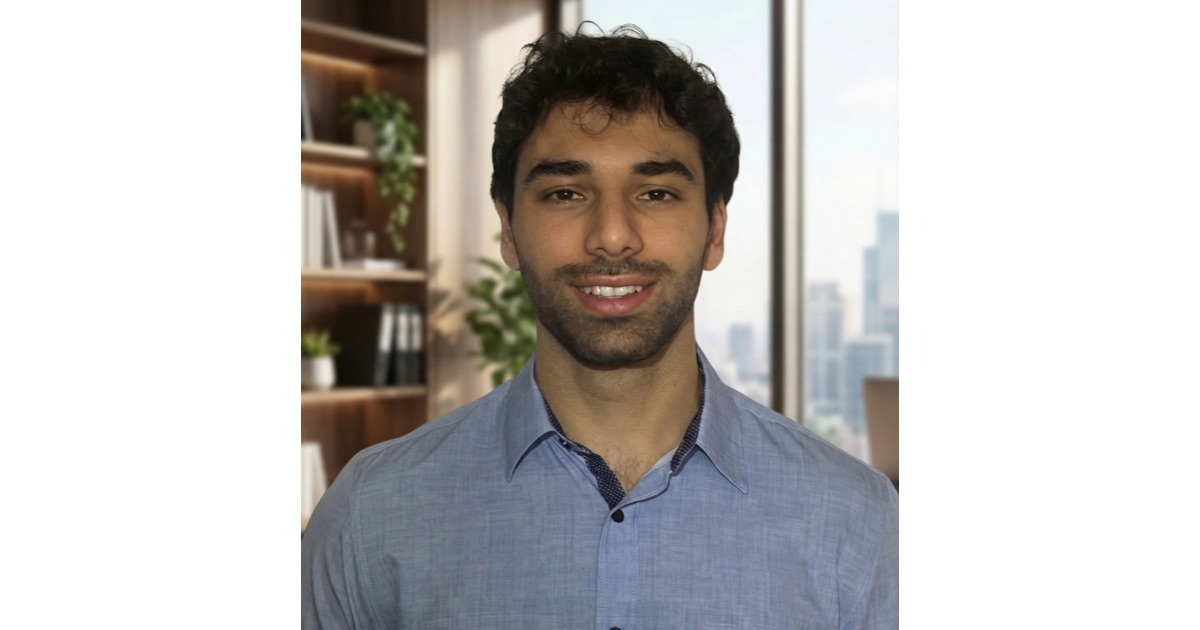
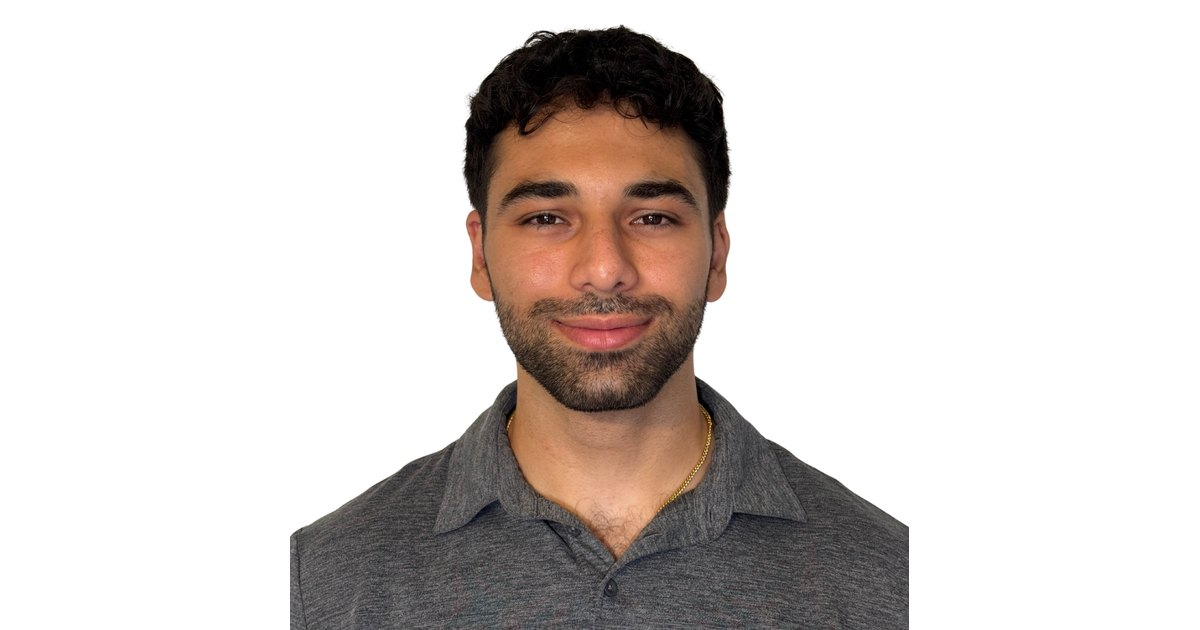
Replace main profile photo and social share image with new headshot
Swap the homepage hero photo (assets/jason-eissayou.jpg) and the
Open Graph / Twitter card image (assets/og-image.jpg) for the new
white-background headshot, and version the image URLs so browsers
and link-preview crawlers fetch the new files.

Claude-Session: https://claude.ai/code/session_01DPmRTsypnV6537Z5ZNzYpJ

diff --git a/index.html b/index.html
@@ -19,7 +19,7 @@
     content="Software Engineer on the watsonx.ai team at IBM. MS in Computer Science from UC Davis.">
   <meta property="og:type" content="website">
   <meta property="og:url" content="https://www.eissayou.com/">
-  <meta property="og:image" content="https://www.eissayou.com/assets/og-image.jpg">
+  <meta property="og:image" content="https://www.eissayou.com/assets/og-image.jpg?v=20261030">
   <meta property="og:site_name" content="Jason Eissayou Portfolio">
 
   <!-- Twitter -->
@@ -27,7 +27,7 @@
   <meta name="twitter:title" content="Jason Eissayou | Software Engineer at IBM watsonx.ai">
   <meta name="twitter:description"
     content="Software Engineer on the watsonx.ai team at IBM. MS in Computer Science from UC Davis.">
-  <meta name="twitter:image" content="https://www.eissayou.com/assets/og-image.jpg">
+  <meta name="twitter:image" content="https://www.eissayou.com/assets/og-image.jpg?v=20261030">
 
   <script type="application/ld+json">
     {
@@ -235,7 +235,7 @@
   <link rel="preconnect" href="https://fonts.googleapis.com">
   <link rel="preconnect" href="https://fonts.gstatic.com" crossorigin>
   <link rel="preconnect" href="https://cdnjs.cloudflare.com" crossorigin>
-  <link rel="preload" as="image" href="assets/jason-eissayou.jpg">
+  <link rel="preload" as="image" href="assets/jason-eissayou.jpg?v=20261030">
   <link rel="stylesheet" href="https://fonts.googleapis.com/css2?family=Inter:wght@300;400;500;600;700;800&family=Playfair+Display:wght@700&display=swap">
   <link rel="stylesheet" href="assets/main.css?v=20260715b">
   <link rel="stylesheet" href="https://cdnjs.cloudflare.com/ajax/libs/font-awesome/6.4.2/css/all.min.css">
@@ -269,8 +269,8 @@
       <button type="button" class="profile-photo-btn" id="profile-photo-btn" title="View more photos"
         style="display: block; margin: 0 auto 2rem auto; padding: 0; border: none; background: none; border-radius: 50%; cursor: pointer;"
         aria-haspopup="dialog" aria-controls="photo-lightbox" aria-label="View more photos of Jason">
-        <img src="assets/jason-eissayou.jpg" alt="Jason Eissayou, software engineer" class="profile-photo"
-          width="608" height="640" fetchpriority="high">
+        <img src="assets/jason-eissayou.jpg?v=20261030" alt="Jason Eissayou, software engineer" class="profile-photo"
+          width="640" height="640" fetchpriority="high">
       </button>
 
       <!-- Name & Title -->

diff --git a/projects/formfixai.html b/projects/formfixai.html
@@ -20,14 +20,14 @@
     content="Case study: FormFixAI analyzes workout videos with Google Gemini 2.5 on an event-driven Azure pipeline using Blob Storage, Functions, FFmpeg, and Cosmos DB.">
   <meta property="og:type" content="website">
   <meta property="og:url" content="https://www.eissayou.com/projects/formfixai.html">
-  <meta property="og:image" content="https://www.eissayou.com/assets/og-image.jpg">
+  <meta property="og:image" content="https://www.eissayou.com/assets/og-image.jpg?v=20261030">
 
   <!-- Twitter -->
   <meta name="twitter:card" content="summary_large_image">
   <meta name="twitter:title" content="FormFixAI: AI Workout Form Analysis | Jason Eissayou">
   <meta name="twitter:description"
     content="Case study: FormFixAI analyzes workout videos with Google Gemini 2.5 on an event-driven Azure pipeline using Blob Storage, Functions, FFmpeg, and Cosmos DB.">
-  <meta name="twitter:image" content="https://www.eissayou.com/assets/og-image.jpg">
+  <meta name="twitter:image" content="https://www.eissayou.com/assets/og-image.jpg?v=20261030">
 
   <script type="application/ld+json">
     {

diff --git a/achievements.html b/achievements.html
@@ -19,14 +19,14 @@
     content="Published arXiv research, 2025 UC Davis CS TA Excellence Award, tennis titles and ITA rankings, hackathon projects, Dean's List, Cal-Bridge, and certifications.">
   <meta property="og:type" content="website">
   <meta property="og:url" content="https://www.eissayou.com/achievements.html">
-  <meta property="og:image" content="https://www.eissayou.com/assets/og-image.jpg">
+  <meta property="og:image" content="https://www.eissayou.com/assets/og-image.jpg?v=20261030">
 
   <!-- Twitter -->
   <meta name="twitter:card" content="summary_large_image">
   <meta name="twitter:title" content="Awards & Achievements | Jason Eissayou">
   <meta name="twitter:description"
     content="Published arXiv research, 2025 UC Davis CS TA Excellence Award, tennis titles and ITA rankings, hackathon projects, Dean's List, Cal-Bridge, and certifications.">
-  <meta name="twitter:image" content="https://www.eissayou.com/assets/og-image.jpg">
+  <meta name="twitter:image" content="https://www.eissayou.com/assets/og-image.jpg?v=20261030">
 
   <script type="application/ld+json">
     {

diff --git a/projects.html b/projects.html
@@ -18,14 +18,14 @@
     content="Explore software and research projects by Jason Eissayou, including FormFixAI, Azure Honeypot Threat Map, and PCAP Explorer.">
   <meta property="og:type" content="website">
   <meta property="og:url" content="https://www.eissayou.com/projects.html">
-  <meta property="og:image" content="https://www.eissayou.com/assets/og-image.jpg">
+  <meta property="og:image" content="https://www.eissayou.com/assets/og-image.jpg?v=20261030">
 
   <!-- Twitter -->
   <meta name="twitter:card" content="summary_large_image">
   <meta name="twitter:title" content="Projects | Jason Eissayou">
   <meta name="twitter:description"
     content="Explore software and research projects by Jason Eissayou, including FormFixAI, Azure Honeypot Threat Map, and PCAP Explorer.">
-  <meta name="twitter:image" content="https://www.eissayou.com/assets/og-image.jpg">
+  <meta name="twitter:image" content="https://www.eissayou.com/assets/og-image.jpg?v=20261030">
 
   <script type="application/ld+json">
     {

diff --git a/contact.html b/contact.html
@@ -18,14 +18,14 @@
     content="Contact Jason Eissayou, Software Engineer on the watsonx.ai team at IBM. Open to engineering and AI collaborations.">
   <meta property="og:type" content="website">
   <meta property="og:url" content="https://www.eissayou.com/contact.html">
-  <meta property="og:image" content="https://www.eissayou.com/assets/og-image.jpg">
+  <meta property="og:image" content="https://www.eissayou.com/assets/og-image.jpg?v=20261030">
 
   <!-- Twitter -->
   <meta name="twitter:card" content="summary_large_image">
   <meta name="twitter:title" content="Contact Jason Eissayou | Software Engineer">
   <meta name="twitter:description"
     content="Contact Jason Eissayou, Software Engineer on the watsonx.ai team at IBM. Open to engineering and AI collaborations.">
-  <meta name="twitter:image" content="https://www.eissayou.com/assets/og-image.jpg">
+  <meta name="twitter:image" content="https://www.eissayou.com/assets/og-image.jpg?v=20261030">
 
   <script type="application/ld+json">
     {

diff --git a/resume.html b/resume.html
@@ -18,14 +18,14 @@
     content="Resume of Jason Eissayou, Software Engineer on the watsonx.ai team at IBM. MS in Computer Science from UC Davis.">
   <meta property="og:type" content="profile">
   <meta property="og:url" content="https://www.eissayou.com/resume.html">
-  <meta property="og:image" content="https://www.eissayou.com/assets/og-image.jpg">
+  <meta property="og:image" content="https://www.eissayou.com/assets/og-image.jpg?v=20261030">
 
   <!-- Twitter -->
   <meta name="twitter:card" content="summary_large_image">
   <meta name="twitter:title" content="Resume | Jason Eissayou - Software Engineer">
   <meta name="twitter:description"
     content="Resume of Jason Eissayou, Software Engineer on the watsonx.ai team at IBM. MS in Computer Science from UC Davis.">
-  <meta name="twitter:image" content="https://www.eissayou.com/assets/og-image.jpg">
+  <meta name="twitter:image" content="https://www.eissayou.com/assets/og-image.jpg?v=20261030">
 
   <script type="application/ld+json">
     {

diff --git a/about.html b/about.html
@@ -18,14 +18,14 @@
     content="Learn about Jason Eissayou, Software Engineer on the watsonx.ai team at IBM. MS CS from UC Davis.">
   <meta property="og:type" content="profile">
   <meta property="og:url" content="https://www.eissayou.com/about.html">
-  <meta property="og:image" content="https://www.eissayou.com/assets/og-image.jpg">
+  <meta property="og:image" content="https://www.eissayou.com/assets/og-image.jpg?v=20261030">
 
   <!-- Twitter -->
   <meta name="twitter:card" content="summary_large_image">
   <meta name="twitter:title" content="About Jason Eissayou | Software Engineer">
   <meta name="twitter:description"
     content="Learn about Jason Eissayou, Software Engineer on the watsonx.ai team at IBM. MS CS from UC Davis.">
-  <meta name="twitter:image" content="https://www.eissayou.com/assets/og-image.jpg">
+  <meta name="twitter:image" content="https://www.eissayou.com/assets/og-image.jpg?v=20261030">
 
   <script type="application/ld+json">
     {

diff --git a/404.html b/404.html
@@ -15,7 +15,7 @@
   <meta property="og:title" content="Page Not Found | Jason Eissayou">
   <meta property="og:description" content="This page doesn't exist (or moved). Head back to the homepage or browse projects.">
   <meta property="og:url" content="https://www.eissayou.com/404.html">
-  <meta property="og:image" content="https://www.eissayou.com/assets/og-image.jpg">
+  <meta property="og:image" content="https://www.eissayou.com/assets/og-image.jpg?v=20261030">
   <link rel="preconnect" href="https://fonts.googleapis.com">
   <link rel="preconnect" href="https://fonts.gstatic.com" crossorigin>
   <link rel="preconnect" href="https://cdnjs.cloudflare.com" crossorigin>
